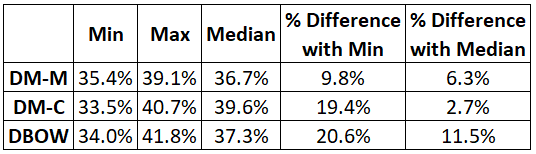
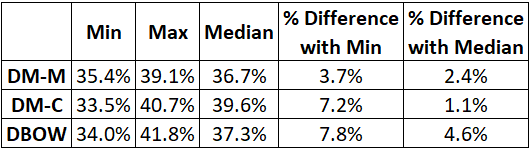
updated figures, added some more summary points to info ret

diff --git a/Doc/Paper2/sections/eval_plan/eval_plan_main.tex b/Doc/Paper2/sections/eval_plan/eval_plan_main.tex
@@ -83,13 +83,16 @@ Cosine simularity is a more efficient measurement for comparing semantic relatio
 Using cosine similarity to determine if the two posts from the same tag were more similar in vector space than the other was expected to produce results with a lower rate of error, however, the Euclidean distance consistently outperformed.  ----FIGURES---  Figures 3 and 4 display the summaries of the results for cosine simularity and Euclidean distance respectively among all the datasets. The percentages were calculated from the fraction of correctly categorized posts such that the two posts from the same tag were deamed closer together in vector space, out of the total amount of times the model was tested. Highlights of the tests are as follows:
 
 \begin{itemize}
-  \item DM-M was the most consistent with both measurements.
-  \item The percent differece between the max and median ratio was DM-C for Euclidean distance.
-  \item the percent differencet between the max and median ratio was DM-M for cosine simularity.
-  \item Feature vector size of 100 produced similar results to 300 size at 20 epochs, but was much faster and might be able to save time without sacrificing precision.
-  \item Raising the minimum count to 10 may helped DM-C.
-  \item DBOW performed better with the smaller 100 vector size with Euclidean, but training it over 50 epochs instead of 20 worsened results.
+  \item DM-M was the most consistent with both measurements among all three models. 
+  \item Optimized DM-C was the most accurate model with Euclidean distance.
+  \item Optimized DM-M was the most accurate model with cosine simularity and cose to DM-C with Euclidean distance.
+  \item DBOW was the least accurate, but the fastest model to train. With proper optimization, it could be an alternative to datasets that are too large for DM.
+  \item Feature vector size of 100 produced similar results to 300 size at 20 epochs, but was much faster and might be able to save time without sacrificing precision, however, 100 feature size with 50 epochs performed worse.
+  \item Raising the minimum word count may help DM-C.
+  \item Not every dataset generated the same correlation between parameter changes. Optimization depends on the individual dataset as well as the model type being used.
 \end{itemize}
+
+Overall, the default model of 300 feature vector size, 20 epochs, minimum word count of 1, total window size of 10, and negative set to 10 in DBOW performed well. DBOW and DM-C exhibited the ability to perform more accurately with optimizing of parameters, but not every dataset was impacted in the same way for one parameter change. For example, the highest percentage of correctly categorized posts in DM-C was brought on by increasing the 300 vector size model from 20 epochs to 50 in the just trained on python dataset, but the other two datasets suffered.
 
 \subsubsection{Vector Prediction Analysis}
 
@@ -121,6 +124,8 @@ The results revealed several interesting possibilities regarding the stackoverfl
 
 
 \subsubsection{Conclusions}
+
+some py > PyDb, PyJs , so training model on one thing might be better, especially when one topic like Js has lower correlation
 Precision in vector prediction analysis was thought to affect info ret results, but it really didn't. New data very different than old.
 Since DM-C depends on strong semantic relationships, a high error rate while measuring cosine simularity demonstrates a week semantic relationship between the individual stackoverflow tags. If the tags do not actually possess a semantic relationship, than 
 
